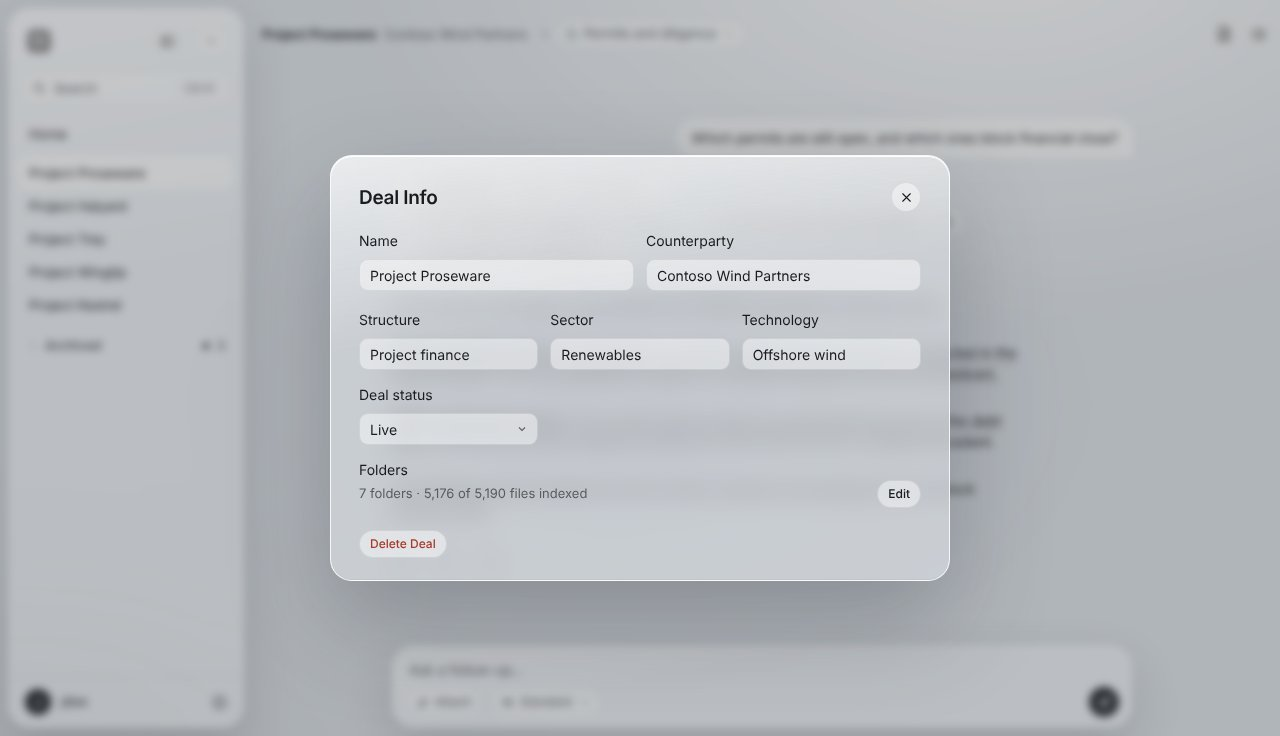
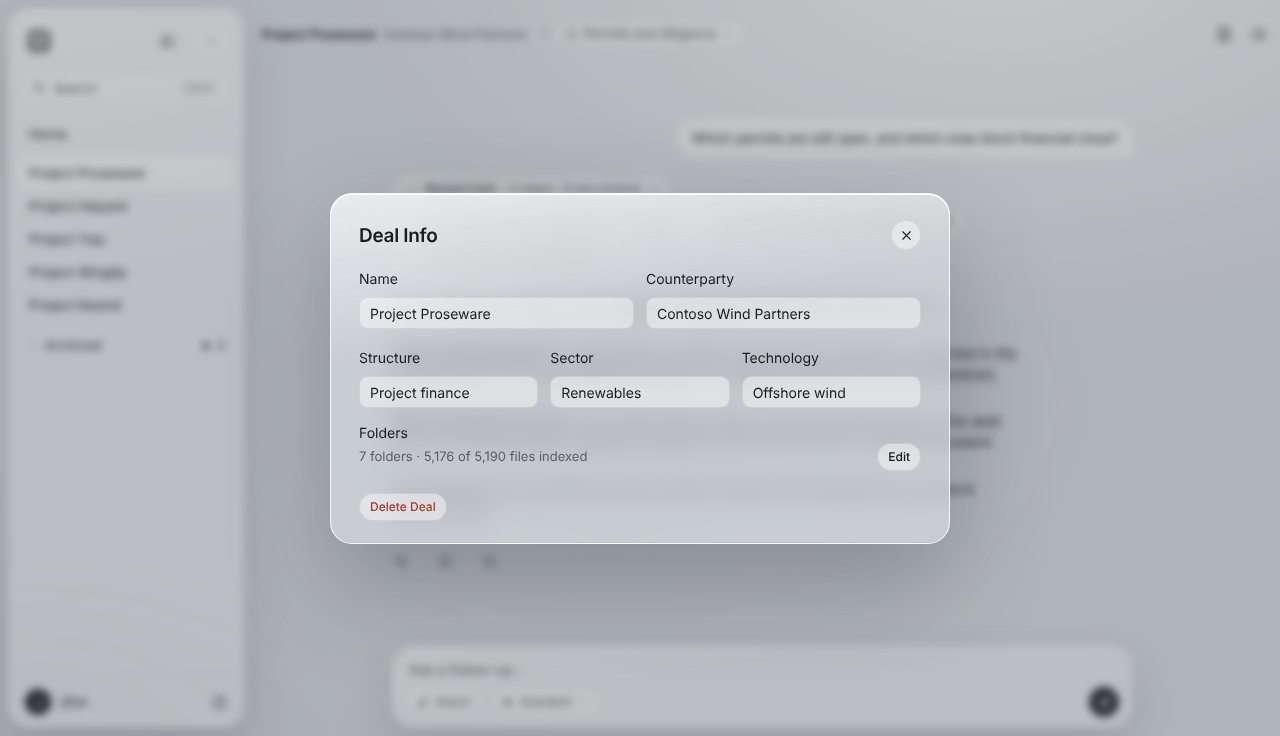
Drop Deal status from Deal Info, as a deal no longer has one (#888)

Changed region(s): [[0.25, 0.3125, 0.75, 0.8125], [0.25, 0.1875, 0.75, 0.2812], [0.6875, 0.5938, 0.7188, 0.6875]]

diff --git a/docs/deal-screen/mock-open-questions.js b/docs/deal-screen/mock-open-questions.js
@@ -41,17 +41,15 @@ const DEAL_INFO_FOLDERS = '<div class="x-infofolders"><span class="lbl">Folders<
   + '<span>7 folders · 5,176 of 5,190 files indexed</span><button type="button" class="btn sm">Edit</button>'
   + '</div></div>';
 
-/** Deal Info: the New Deal form's fields plus Deal status, the folders line, and Delete Deal set apart. */
+/** Deal Info: the New Deal form's fields, the folders line, and Delete Deal set apart. */
 function dealInfoDialog() {
-  const status = '<div><span class="lbl">Deal status</span><button type="button" class="field x-fieldpick"'
-    + ' aria-haspopup="menu">Live</button></div>';
   return '<div class="scrim blur"><div class="dlg nddlg x-details" role="dialog" aria-label="Deal Info">'
     + '<div class="shead"><h2>Deal Info</h2><button type="button" class="x" aria-label="Close"'
     + ` title="Close (Esc)">${icon('close', 15)}</button></div>`
     + `<div class="ndtop">${dealField('Name', 'Project Proseware')}${dealField('Counterparty', COUNTERPARTY)}</div>`
     + `<div class="ndpicks">${dealField('Structure', 'Project finance')}${dealField('Sector', 'Renewables')}`
     + `${dealField('Technology', 'Offshore wind')}</div>`
-    + `<div class="ndpicks">${status}</div>${DEAL_INFO_FOLDERS}`
+    + DEAL_INFO_FOLDERS
     + '<div class="acts x-infoacts"><button type="button" class="btn sm x-delete">Delete Deal</button></div>'
     + '</div></div>';
 }

diff --git a/docs/deal-screen/mock-open-questions.css b/docs/deal-screen/mock-open-questions.css
@@ -6,19 +6,6 @@
   visibility: hidden;
 }
 
-/* Deal Details: the New Deal form's grid without its folders */
-.x-details .ndpicks + .ndpicks {
-  margin-top: 14px;
-}
-.x-fieldpick {
-  display: flex;
-  align-items: center;
-  justify-content: space-between;
-  width: 100%;
-  text-align: left;
-  cursor: default;
-}
-
 /* Folders: the core documents and a deal sharing these files sit under the folders, set off by a hairline */
 .x-folders .fdgroup {
   margin: 0;

diff --git a/docs/decisions.md b/docs/decisions.md
@@ -311,12 +311,13 @@ Many entries refer to the control file, `src/control.ts`, where a deployment set
 
 ## Deal screen
 
-These decisions are for the rebuilt deal screen in [deal-screen-design.md](deal-screen-design.md) and are not built yet (#881). Once built, they replace the sidebar's Deal status groups (Pages and navigation), **Past Conversations** in every composer (Conversations), and **Keep It** in confirms (Working rules). How the deal's Overview, Findings, and Checklist pages and the deal header fit the new screen is open.
+These decisions are for the rebuilt deal screen in [deal-screen-design.md](deal-screen-design.md) and are not built yet (#881). Once built, they replace Deal status wherever it appears (Pages and navigation, Working rules), **Past Conversations** in every composer (Conversations), and **Keep It** in confirms (Working rules). How the deal's Overview, Findings, and Checklist pages and the deal header fit the new screen is open.
 
 - A deal shows its conversation on the left and, when opened, one pane on the right. The pane's tabs are Tasks, Diligence, and Q&A, always in that order, followed by any opened finding, document, or task, each with ×.
 - The selected tab is 1.5 times as wide as each other tab, and the rest share the bar equally. A hairline separates unselected tabs, the selected tab sits raised, and tabs show no counts. An unselected tab too narrow for its name drops its icon before shortening the word. The Diligence tab uses the Checklist's icon.
 - The sidebar folds to its slim rail while the pane is open and comes back when it closes. A sidebar pinned open stays, and the conversation narrows; the pane gives way only to keep the conversation at least 400px wide.
-- The sidebar lists deals in one list, ordered by when the person last worked on each deal, with no Deal status groups.
+- A deal has no Deal status. The sidebar lists deals in one list, ordered by when the person last worked on each
+  deal, and **Archive Deal** hides one.
 - A deal's ⋯ menu offers **Archive Deal**, which asks first in the app's confirm dialog. Archived deals fold under **Archived**; a dot marks an archived deal whose data room changed, with its update line ("4 new files · 11:20 AM"). An archived deal's ⋯ menu offers **Unarchive Deal**.
 - The conversation title in the breadcrumb is a button that opens the deal's past conversations. **Past Conversations** leaves the composer.
 - The check of the data room against the checklist is called Diligence (**Run Diligence**, the Diligence tab), and the list of running and finished work is called Tasks. The Diligence tab shows the Checklist's own marks and groups.
